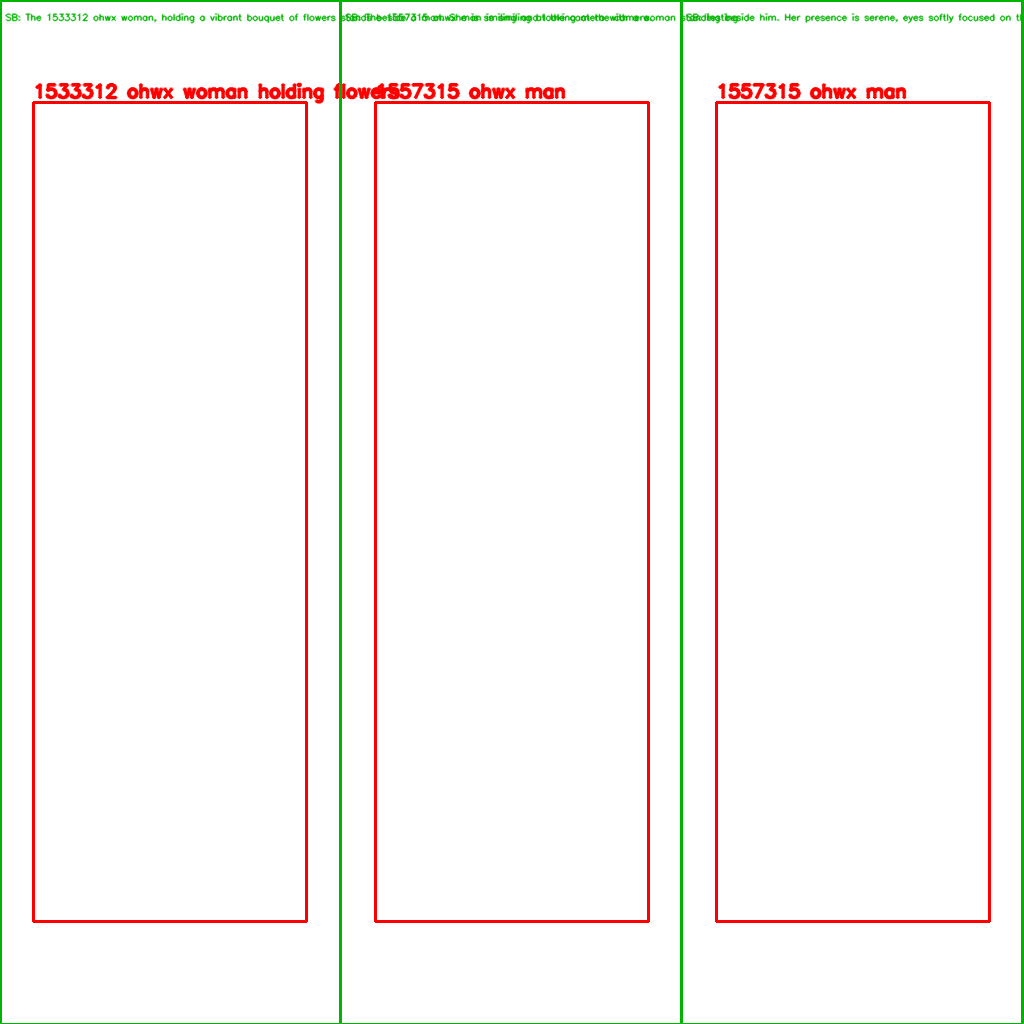
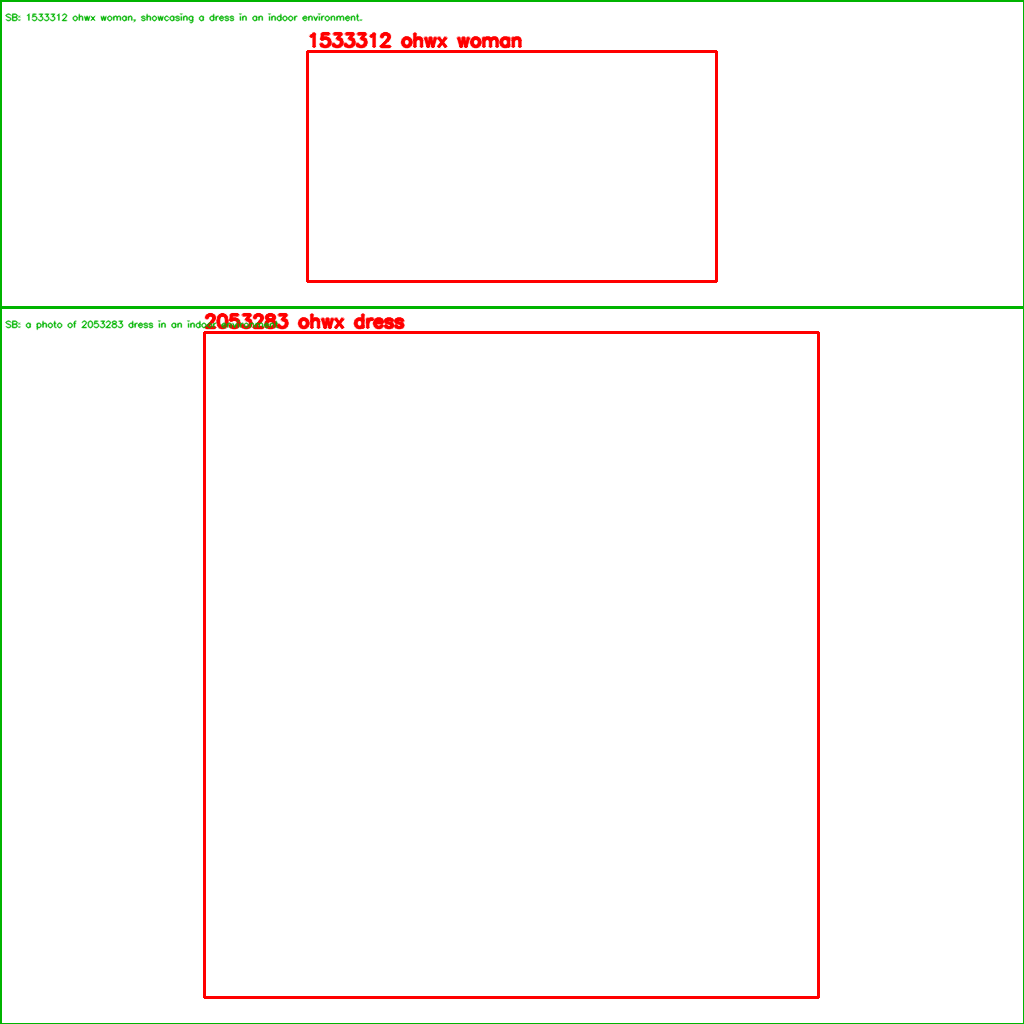
Better LoRA RAG formatting support, fashion test

diff --git a/astria_tests/test_rag.py b/astria_tests/test_rag.py
@@ -6,7 +6,7 @@ sys.path.append("astria")
 
 from infer import *
 from test_infer import pipe, BASE_PROMPT, run_images, IMG_POSE, FLUX_LORA, JsonObj, RAG_FluxPipeline, FLUX_LORA_SHOE, \
-    FLUX_LORA_MAN_MARCO, FLUX_LORA_MAN, FLUX_CARTOON, FLUX_LORA_WOMAN_2
+    FLUX_LORA_MAN_MARCO, FLUX_LORA_MAN, FLUX_CARTOON, FLUX_LORA_WOMAN_2, FLUX_LORA_DRESS
 from pathlib import Path
 
 
@@ -117,6 +117,22 @@ def test_regional_two_lora():
     run_images(prompt)
     assert pipe.last_pipe is None
 
+def test_regional_two_lora_with_dress():
+    regional_json = ''
+    json_pth = Path(__file__).resolve().parent.parent / 'astria' / 'ragdiffusion' / 'prompts' / 'test_regional_two_lora_person_and_dress.json'
+    with open(json_pth, 'r') as f:
+        regional_json = json.dumps(json.load(f))
+    prompt = JsonObj(
+        **copy.copy(BASE_PROMPT.__dict__),
+        use_regional=True,
+        regional_json=regional_json,
+    )
+
+    prompt.text=f"<lora:{FLUX_LORA.id}:1> {FLUX_LORA.train_token} woman is posing indoors wearing a <lora:{FLUX_LORA_DRESS.id}:1> {FLUX_LORA_DRESS.train_token} dress"
+    prompt.tunes=[FLUX_LORA, FLUX_LORA_DRESS]
+    run_images(prompt)
+    assert pipe.last_pipe is None
+
 def test_regional_two_lora_no_premade_json():
     prompt = JsonObj(
         **copy.copy(BASE_PROMPT.__dict__),
@@ -156,7 +172,7 @@ def test_regional_three_lora_no_premade_json():
     run_images(prompt)
     assert pipe.last_pipe is None
 
-def test_regional_two_women():
+def test_regional_two_lora_women_no_premade_json():
     prompt = JsonObj(
         **copy.copy(BASE_PROMPT.__dict__),
         use_regional=True,
@@ -168,6 +184,7 @@ def test_regional_two_women():
     prompt.tunes=[FLUX_LORA, FLUX_LORA_WOMAN_2]
     run_images(prompt)
     assert pipe.last_pipe is None
+
 def test_regional_four_lora_no_premade_json():
     prompt = JsonObj(
         **copy.copy(BASE_PROMPT.__dict__),

diff --git a/astria/infer.py b/astria/infer.py
@@ -492,6 +492,11 @@ class InferPipeline(InpaintFaceMixin, VtonMixin):
         prompt_cleaned = prompt._prompt_with_lora_ids
         for lora in prompt.tunes:
             prompt_cleaned = prompt_cleaned.replace(f'{lora.id} {lora.train_token} {lora.name}', lora.name)
+            prompt_cleaned = prompt_cleaned.replace(f'{lora.train_token} {lora.name} {lora.id}', lora.name)
+
+            # Worst case: the customer passes in an unusually shaped prompt.
+            # Just leave the name/token alone and replace the ID.
+            prompt_cleaned = prompt_cleaned.replace(str(lora.id), '')
 
         if all_people and len(prompt.tunes) > 1:
             num_people = len(prompt.tunes)
@@ -966,7 +971,8 @@ class InferPipeline(InpaintFaceMixin, VtonMixin):
         if prompt.outpaint:
             images = self.outpaint(images, prompt, kwargs)
 
-        images = self.vton(images, prompt)
+        if not use_regional:
+            images = self.vton(images, prompt)
         if prompt.super_resolution or os.environ.get('SUPER_RESOLUTION'):
             images = self.upscale(images, prompt)
 

diff --git a/astria/ragdiffusion/prompts/create_regional_image.py b/astria/ragdiffusion/prompts/create_regional_image.py
@@ -3,7 +3,7 @@ import json
 import numpy as np
 
 prompt_regions = None
-with open('test_regional_three_lora.json', 'r') as f:
+with open('test_regional_two_lora_person_and_dress.json', 'r') as f:
     prompt_regions = json.load(f)
 
 SR_hw_split_ratio = prompt_regions['SR_hw_split_ratio']
